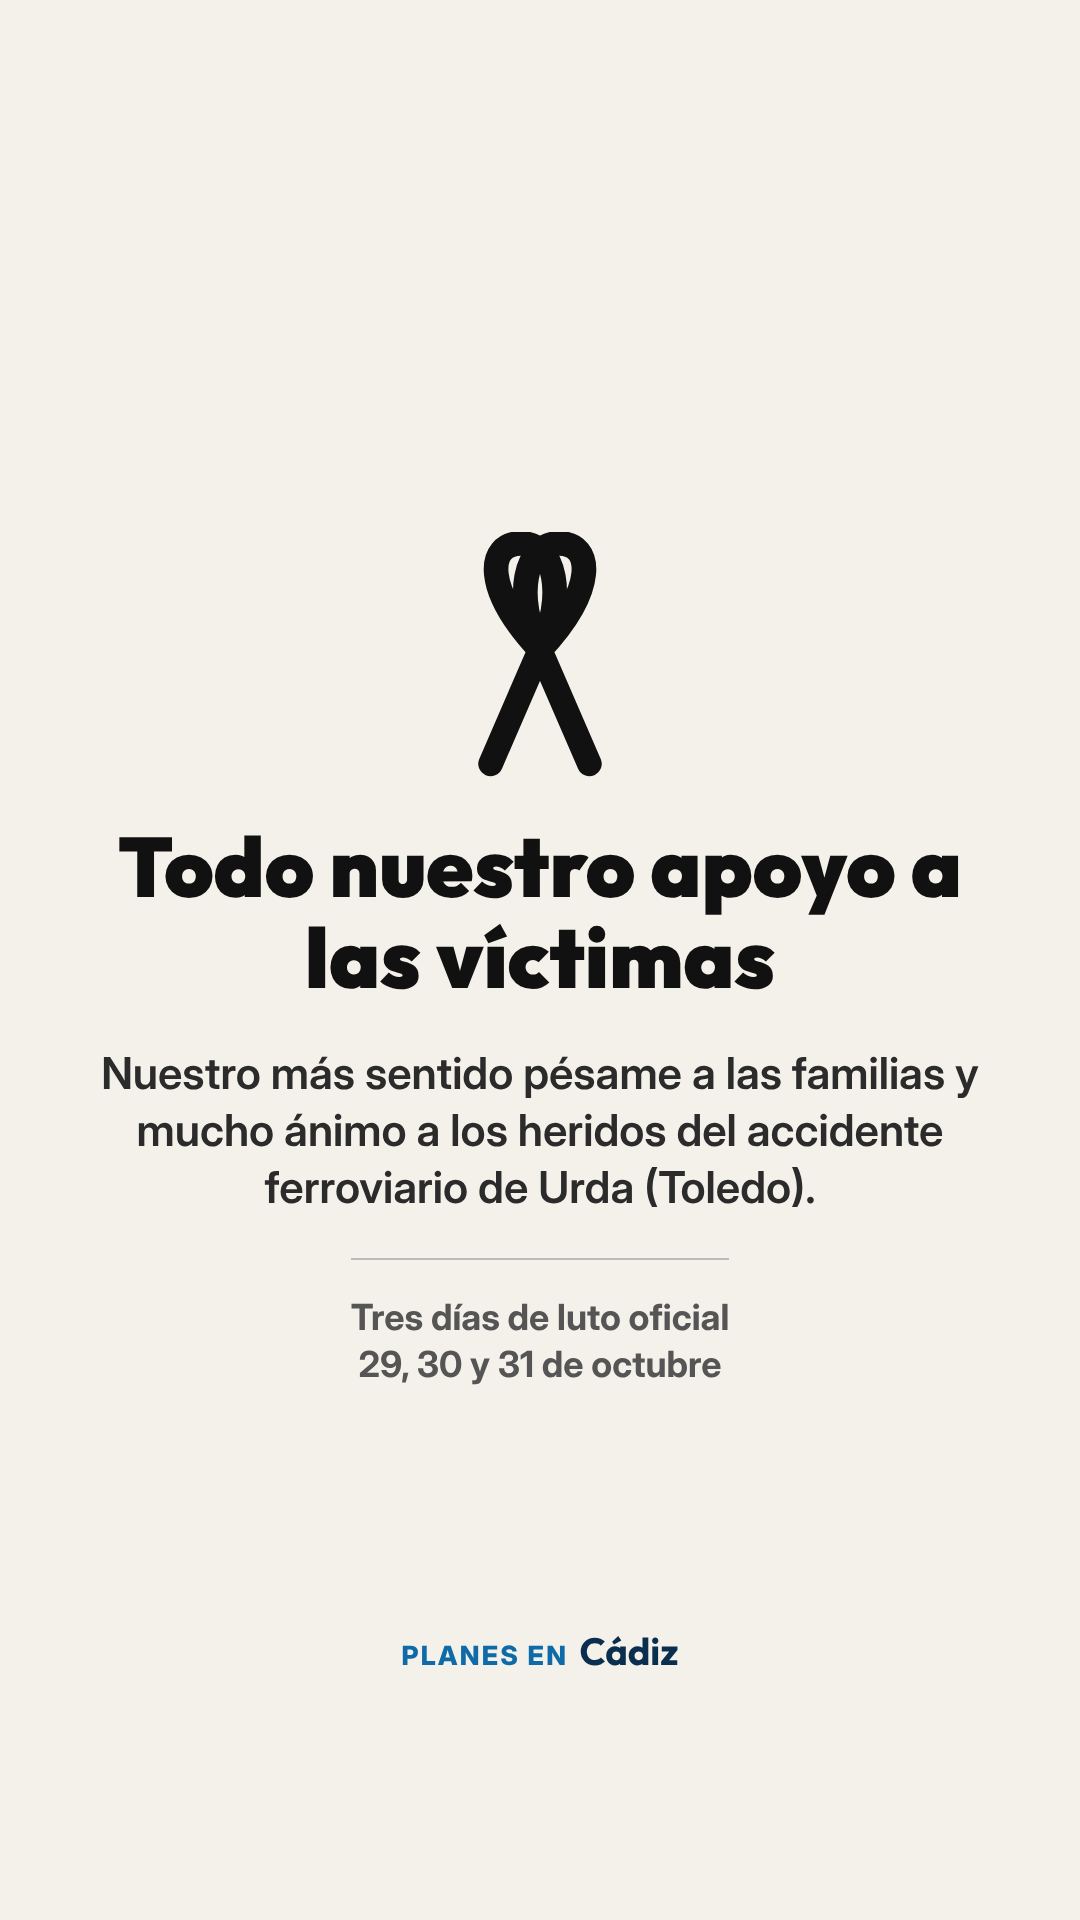
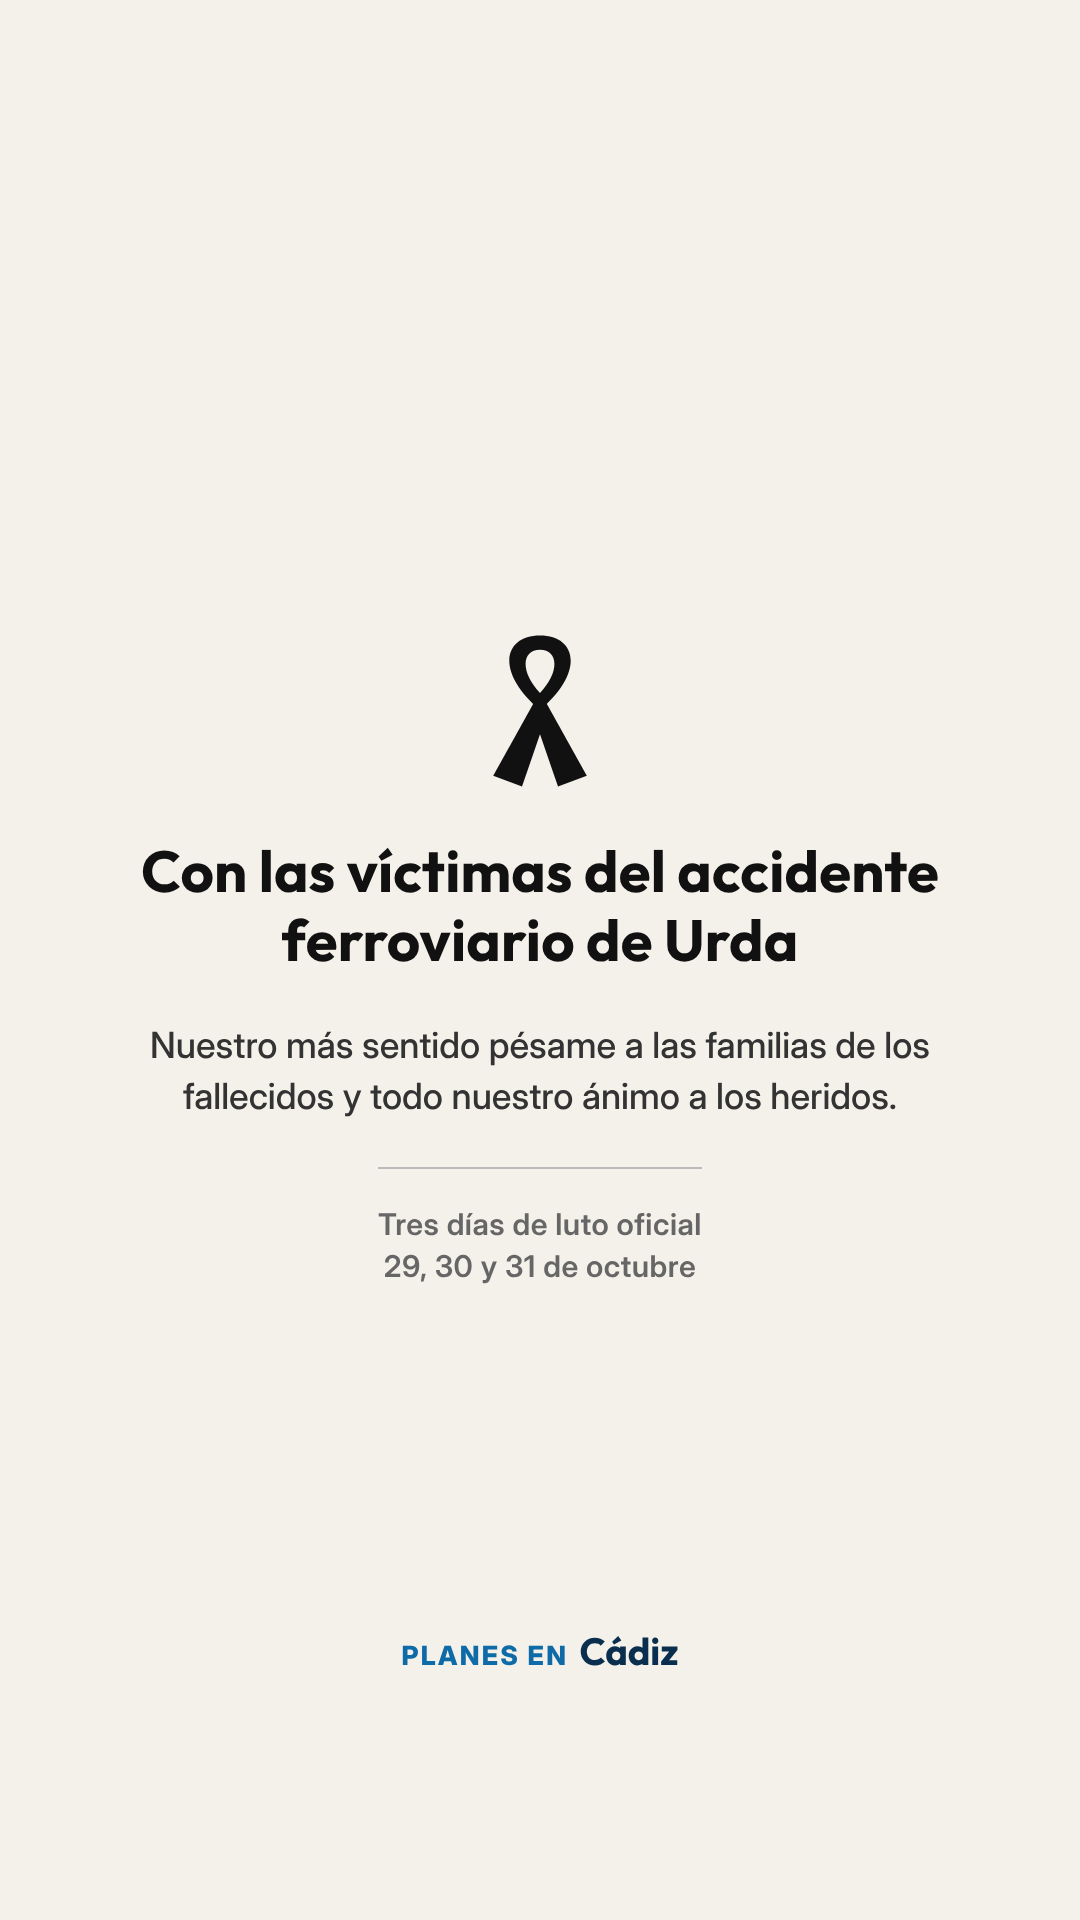
Story de solidaridad: crespón real, familias de los fallecidos, más sobria
Claude-Session: https://claude.ai/code/session_015K7xjVeU4nwxNYicvNL5Uy

Changed region(s): [[0.0917, 0.4375, 0.8861, 0.7188], [0.4278, 0.25, 0.55, 0.4062]]

diff --git a/plantilla/story-solidaridad.html b/plantilla/story-solidaridad.html
@@ -1,11 +1,11 @@
 <!doctype html><html lang="es"><head><meta charset="utf-8"><link rel="stylesheet" href="estilos.css"><script src="comun.js"></script>
 <style>
 .lienzo{background:#f4f1ea !important}
-.zona{position:absolute;left:90px;right:90px;top:250px;bottom:250px;display:flex;flex-direction:column;align-items:center;justify-content:center;text-align:center;gap:42px}
-.lazo{width:190px;height:auto}
-h1{font-size:84px;line-height:1.08;color:#111;font-weight:900}
-.msg{font-size:44px;line-height:1.3;color:#2b2b2b;font-weight:600}
-.luto{font-size:36px;line-height:1.3;color:#555;font-weight:700;border-top:2px solid #bbb;padding-top:34px}
+.zona{position:absolute;left:90px;right:90px;top:250px;bottom:250px;display:flex;flex-direction:column;align-items:center;justify-content:center;text-align:center;gap:46px}
+.lazo{width:120px;height:auto}
+h1{font-size:58px;line-height:1.18;color:#111;font-weight:700;letter-spacing:.2px}
+.msg{font-size:36px;line-height:1.4;color:#333;font-weight:500}
+.luto{font-size:30px;line-height:1.4;color:#666;font-weight:600;letter-spacing:.5px;border-top:2px solid #bbb;padding-top:34px}
 .marca{position:absolute;left:0;right:0;bottom:250px;display:flex;justify-content:center}
 .mini{filter:none}
 </style></head><body>
@@ -14,9 +14,9 @@ h1{font-size:84px;line-height:1.08;color:#111;font-weight:900}
 async function render(d){
   aplicarTema(d);
   document.getElementById("l").innerHTML=`<div class="zona">
-    <svg class="lazo" viewBox="0 0 100 130" role="img" aria-label="Lazo negro de luto" fill="none" stroke="#111" stroke-width="13" stroke-linecap="round" stroke-linejoin="round"><path d="M50 62 C20 30 22 6 40 6 C58 6 64 34 50 62 C38 90 30 108 24 122"/><path d="M50 62 C80 30 78 6 60 6 C42 6 36 34 50 62 C62 90 70 108 76 122"/></svg>
-    <h1>Todo nuestro apoyo a las víctimas</h1>
-    <div class="msg">Nuestro más sentido pésame a las familias y mucho ánimo a los heridos del accidente ferroviario de Urda (Toledo).</div>
+    <svg class="lazo" viewBox="0 0 100 132" role="img" aria-label="Crespón negro de luto" fill="#111"><path fill-rule="evenodd" d="M50 64 C12 32 20 2 50 2 C80 2 88 32 50 64 Z M50 50 C33 32 35 14 50 14 C65 14 67 32 50 50 Z"/><path d="M46 56 L57 64 L35 128 L11 119 Z"/><path d="M54 56 L43 64 L65 128 L89 119 Z"/></svg>
+    <h1>Con las víctimas del accidente ferroviario de Urda</h1>
+    <div class="msg">Nuestro más sentido pésame a las familias de los fallecidos y todo nuestro ánimo a los heridos.</div>
     <div class="luto">Tres días de luto oficial<br>29, 30 y 31 de octubre</div>
   </div>
   <div class="marca">${logo(d,"mini",38)}</div>`;
